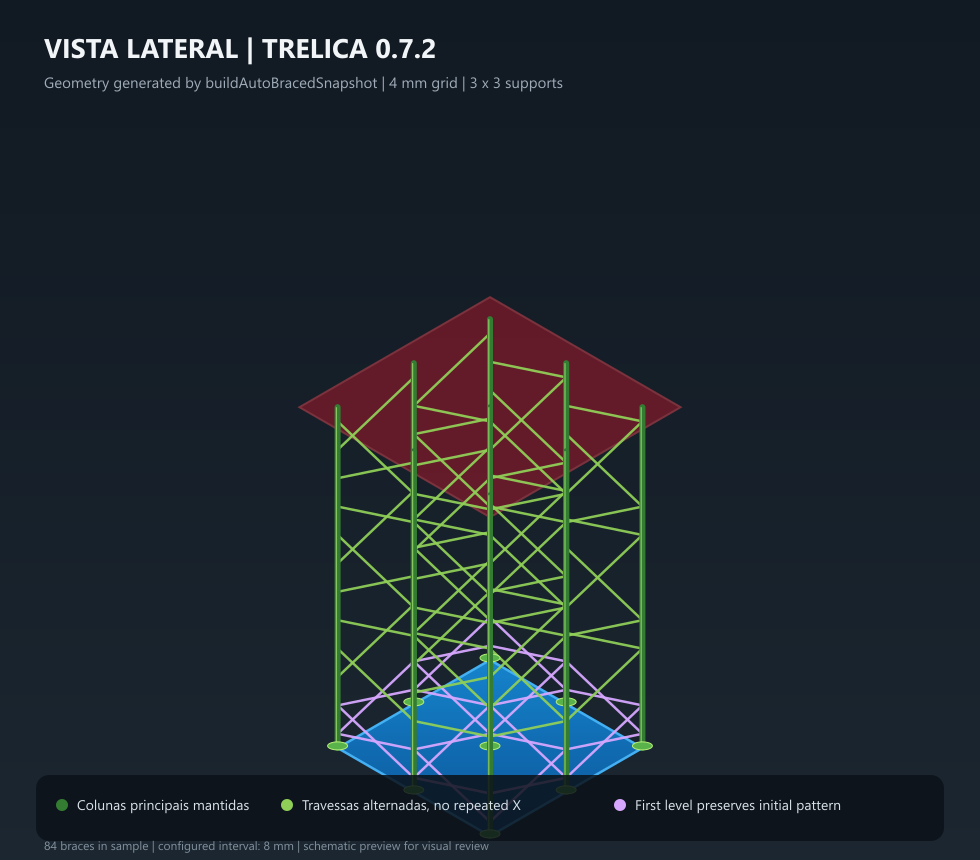
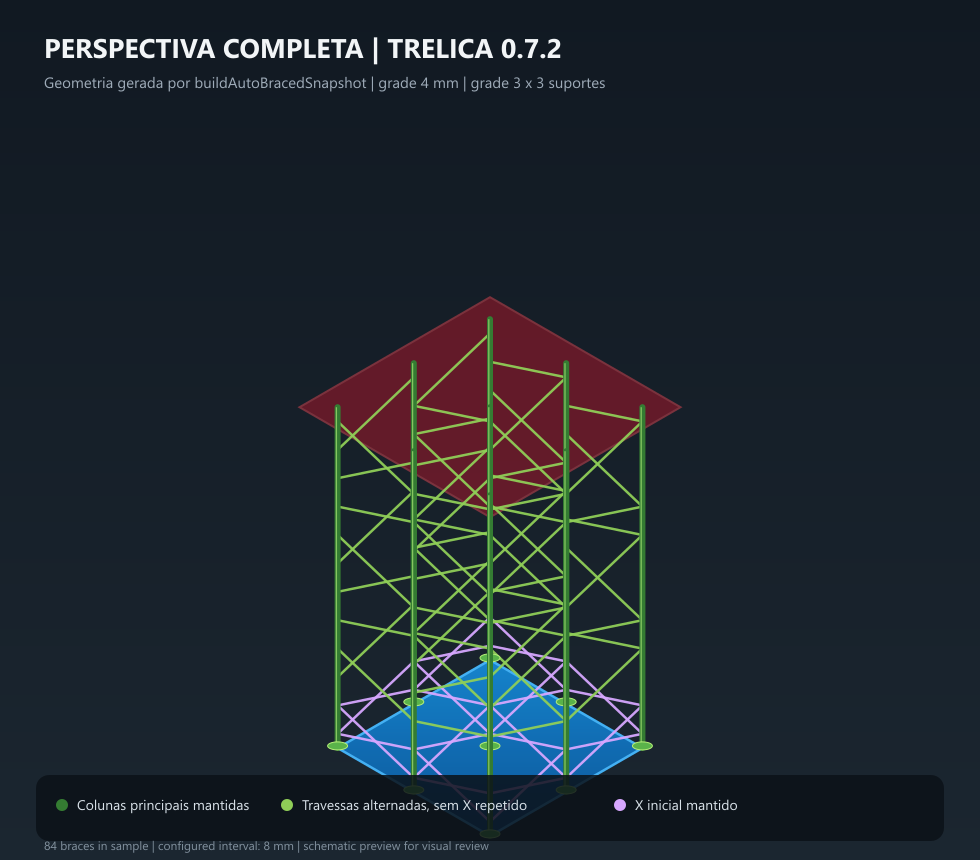
docs(release): preserve per-platform notes for 0.7.2

Changed region(s): [[0.0306, 0.0302, 0.6122, 0.1209], [0.4592, 0.907, 0.5204, 0.9674], [0.7041, 0.9372, 0.7653, 0.9674]]

diff --git a/CHANGELOG.md b/CHANGELOG.md
@@ -3,55 +3,126 @@
 Cada versão lista o que há de novo e o que foi corrigido em relação à anterior.
 A seção da versão também vira o texto da release no GitHub.
 
+As notas seguem sempre a mesma ordem de prioridade: **Windows** primeiro,
+depois **Linux** e por último **macOS**. O que vale para todas as plataformas
+vem em "Todas as plataformas", depois das três. Uma plataforma sem mudanças
+nesta versão aparece com "Nada específico nesta versão".
+
 ## [0.7.2] - 2026-11-27
 
-### Correções
+### Windows
+
+Nada específico nesta versão. A correção está em Todas as plataformas.
+
+### Linux
+
+Nada específico nesta versão. O Flatpak recebe as mudanças de Todas as plataformas.
+
+### macOS
+
+Nada específico nesta versão. O DMG recebe as mudanças de Todas as plataformas.
+
+### Todas as plataformas
+
+**Correções**
 
 - **Treliça lateral dos suportes:** reduz conexões repetidas, impede diagonais que saltam células e alterna a orientação dentro de cada célula para não formar X sobre X.
-- **Reforços verticais:** mantêm a densidade de contatos validada para cobertura; o ajuste atua nas travessas laterais redundantes.
-- **Preview técnico:** inclui uma prévia gerada pela geometria do algoritmo para facilitar a revisão visual.
+- **Reforços verticais:** mantém a densidade de contatos calibrada para cobertura; a redução atua nas travessas laterais redundantes.
+- **Preview técnico:** inclui vistas lateral e em perspectiva geradas pela geometria do algoritmo.
 
 ## [0.7.1] - 2026-11-26
 
-### Novidades
+### Windows
+
+**Correções**
+
+- **Instalador:** a tela do Microsoft Visual C++ e as mensagens dela diziam "DragonFruit". Agora dizem "Rambutan Slicer" e aparecem em português no Windows em português. As telas do instalador também ficaram em português.
+- **Reinício no instalador:** quando o Visual C++ novo já está no disco, o instalador continua sem pedir para reiniciar. Só pede quando um arquivo em uso ficou para ser trocado.
+
+### Linux
+
+Nada específico nesta versão. O Flatpak recebe as mudanças de todas as plataformas abaixo.
+
+### macOS
+
+Nada específico nesta versão. O DMG recebe as mudanças de todas as plataformas abaixo.
+
+### Todas as plataformas
+
+**Novidades**
 
 - **Etapas na lateral esquerda:** Preparar, Suporte, Exportar e Impressão saem do centro da barra do topo e passam para uma barra vertical à esquerda. A barra de ferramentas vertical, os painéis e o cartão de estatísticas do modelo abrem espaço para ela.
 - **Paleta de comandos:** o menu do Rambutan Slicer virou uma paleta pesquisável com os arquivos recentes. Abre pelo botão do menu ou com Ctrl+K (Cmd+K no Mac).
 - **Treliça lateral na diagonal:** a treliça automática agora também liga suportes vizinhos na diagonal da grade, deixando o conjunto mais rígido.
 
-### Correções
+**Correções**
 
-- **Instalador do Windows:** a tela do Microsoft Visual C++ e as mensagens dela diziam "DragonFruit". Agora dizem "Rambutan Slicer" e aparecem em português no Windows em português. O instalador também ficou em português.
-- **Reinício no instalador:** quando o Visual C++ novo já está no disco, o instalador continua sem pedir para reiniciar. Só pede quando um arquivo em uso ficou para ser trocado.
-- **Nomes no app:** o tipo de arquivo VOXL e a mensagem de STL grande demais não falam mais em DragonFruit.
 - **Painel de Slicing:** o painel agora rola quando não cabe na tela, e o botão de fatiar fica sempre visível no rodapé.
+- **Nomes no app:** o tipo de arquivo VOXL e a mensagem de STL grande demais não falam mais em DragonFruit.
 
 ## [0.7.0] - 2026-11-26
 
-### Novidades
+### Windows
+
+**Novidades**
 
 - **Windows 32 bits e versões sem instalador:** além do instalador x64, a release traz instalador x86, executável avulso e versão portable (zip) para x64 e x86. Só o instalador x64 foi testado.
+
+**Correções**
+
+- **Build x86:** a biblioteca manifold passa a ser compilada para Win32 com o runtime estático, e a verificação dos pacotes do Windows aceita o Universal CRT.
+
+### Linux
+
+- A release e o README avisam que a versão Linux ainda não foi testada.
+
+### macOS
+
+- A release e o README avisam que a versão macOS só é compilada e nunca foi testada num Mac.
+
+### Todas as plataformas
+
+**Novidades**
+
 - **Doações por Pix:** a tela Sobre e o menu do app têm a opção "Apoiar o Rambutan" com a chave Pix. O README e o botão Sponsor do GitHub também.
 - **Importação STEP mais segura:** a conversão de arquivos STEP/STP tem tempo limite e se recupera de travamentos do importador, em vez de congelar o app.
 - **HALOT-MAGE:** perfis salvos que ainda exportavam CTB passam automaticamente para CXDLPv4, o formato que a impressora lê.
 - **Avisos de licença:** as builds levam a licença AGPL e os avisos de terceiros, e os plugins derivados do DragonFruit dizem que são forks.
-- **Avisos de plataforma:** a página da release e o README dizem que só o Windows x64 foi testado, e que macOS e Linux ainda não foram.
 
-### Correções
+**Correções**
 
 - **Menu de reparo:** Remesh e Shrink-Wrap voltaram para o submenu Reparar do editor.
 - **Relatórios de importação da release:** cada plataforma publica o seu relatório com nome próprio, sem um sobrescrever o outro.
-- **Build x86:** a biblioteca manifold passa a ser compilada para Win32 com o runtime estático, e a verificação dos pacotes do Windows aceita o Universal CRT.
 - **Marca:** o app deixou de apresentar a marca DragonFruit como se fosse do Rambutan Slicer.
 
-### Por dentro
+**Por dentro**
 
 - O `page.tsx` do editor, o gerenciador de cena e o `SceneCanvas` foram divididos em hooks e módulos menores, e o `main.rs` do Tauri em módulos (backup, autosave, ilhas, arquivos, integrações, logs, diálogos). O comportamento não muda.
 - O CI roda os testes do motor de fatiamento em Rust e do crate `src-tauri`, e o workflow de testes ficou verde.
 
 ## [0.6.0] - 2026-11-24
 
-### Novidades
+### Windows
+
+**Correções**
+
+- **Runtime da Microsoft:** a versão fixada do Visual C++ passa a ser a 14.52.37029.0, e a verificação do pacote do Windows lê o nome do executável do `Cargo.toml`.
+
+### Linux
+
+**Novidades**
+
+- **Flatpak** com nome e ID próprios do Rambutan Slicer.
+
+### macOS
+
+**Correções**
+
+- **Assinatura:** o time da Apple e a identidade de assinatura vêm dos secrets do repositório. Sem eles, o build do macOS sai com assinatura ad-hoc.
+
+### Todas as plataformas
+
+**Novidades**
 
 - **Importação STEP/STP:** arquivos CAD são convertidos em malha por um importador OCCT em WebAssembly.
 - **Diagnóstico de importação:** falhas de importação ficam registradas com a etapa em que aconteceram e podem ser salvas em um relatório.
@@ -59,10 +130,9 @@ A seção da versão também vira o texto da release no GitHub.
 - **Revisão final antes de exportar:** ilhas, regiões flutuantes, colisões e furos de drenagem são verificados antes de imprimir.
 - **Gravação:** relevo em alto-relevo, relevo a partir de imagem e reposicionamento na superfície do modelo.
 - **Visual:** oclusão ambiente mais forte por padrão, cor base na prévia de impressão e logo colorido do Rambutan na mesa.
-- **Flatpak** com nome e ID próprios do Rambutan Slicer.
 - Guia de preparação, escolha de superfície para gravação e volume do sólido, com ajustes nos suportes automáticos, travamentos, colisões e esvaziamento.
 
-### Correções
+**Correções**
 
 - **Perfis de impressora:** tamanhos de tela corrigidos com base nos presets do ChiTuBox (Photon M3 Premium, LD-002R, LD-002H, Halot One Pro, Halot Ray, Halot Mage / Mage Pro, Photon Mono M7 / M7 Pro / M7 Max, Mars 5, LD-006). Antes, algumas peças saíam maiores que o modelo.
 - **HALOT-MAGE:** passa a exportar CXDLPv4 em vez de CTB, que a impressora não reconhecia. HALOT-MAGE PRO e MAGE S 14K agora fatiam.
